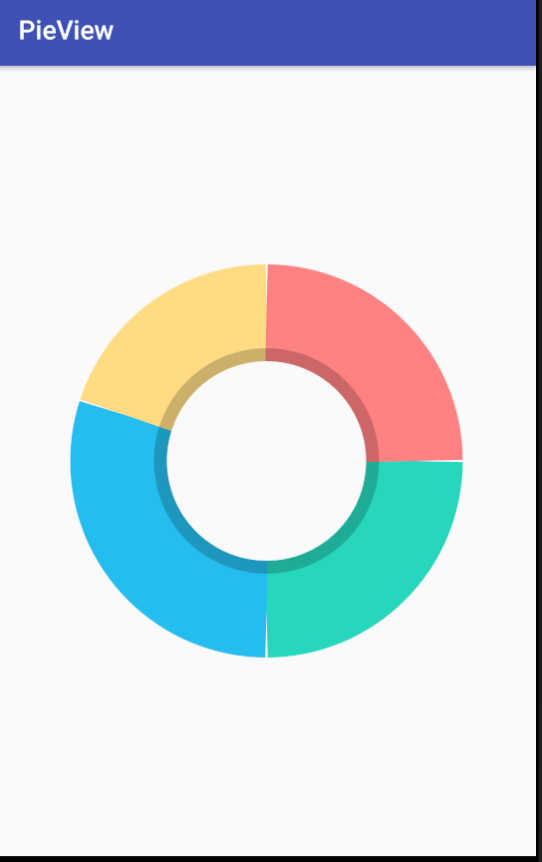
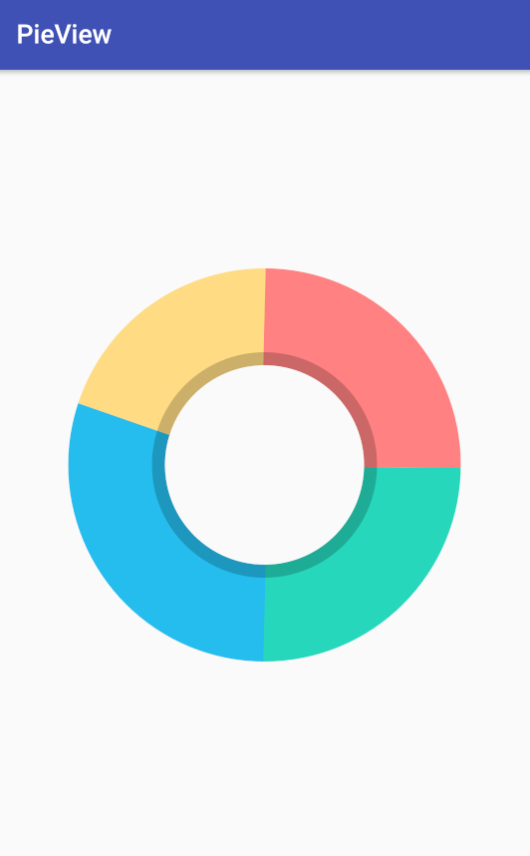
处理圆弧间隙问题

diff --git a/app/src/main/java/com/zl/pieview/PieView.java b/app/src/main/java/com/zl/pieview/PieView.java
@@ -70,14 +70,14 @@ public class PieView extends View {
         //获得外圆半径
         int mOutRadius = mCenterXY - mOutStrokeWidth / 2;
         RectF mRectF = new RectF(mCenterXY - mOutRadius, mCenterXY - mOutRadius, mCenterXY + mOutRadius, mCenterXY + mOutRadius);
-        //设置起始价角度
+        //设置起始角度
         int startAngle = 0;
         mPaint.setStrokeWidth(mOutStrokeWidth);
         for (PieBean mPieBean : pieBeans) {
-            float sweepAngle = 360 * mPieBean.value;
+            float sweepAngle = 360 * mPieBean.value + 1;
             mPaint.setColor(mPieBean.color);
             canvas.drawArc(mRectF,startAngle,sweepAngle,false,mPaint);
-            startAngle += sweepAngle;
+            startAngle += sweepAngle - 1;
         }
 
         //获取内圆半径
